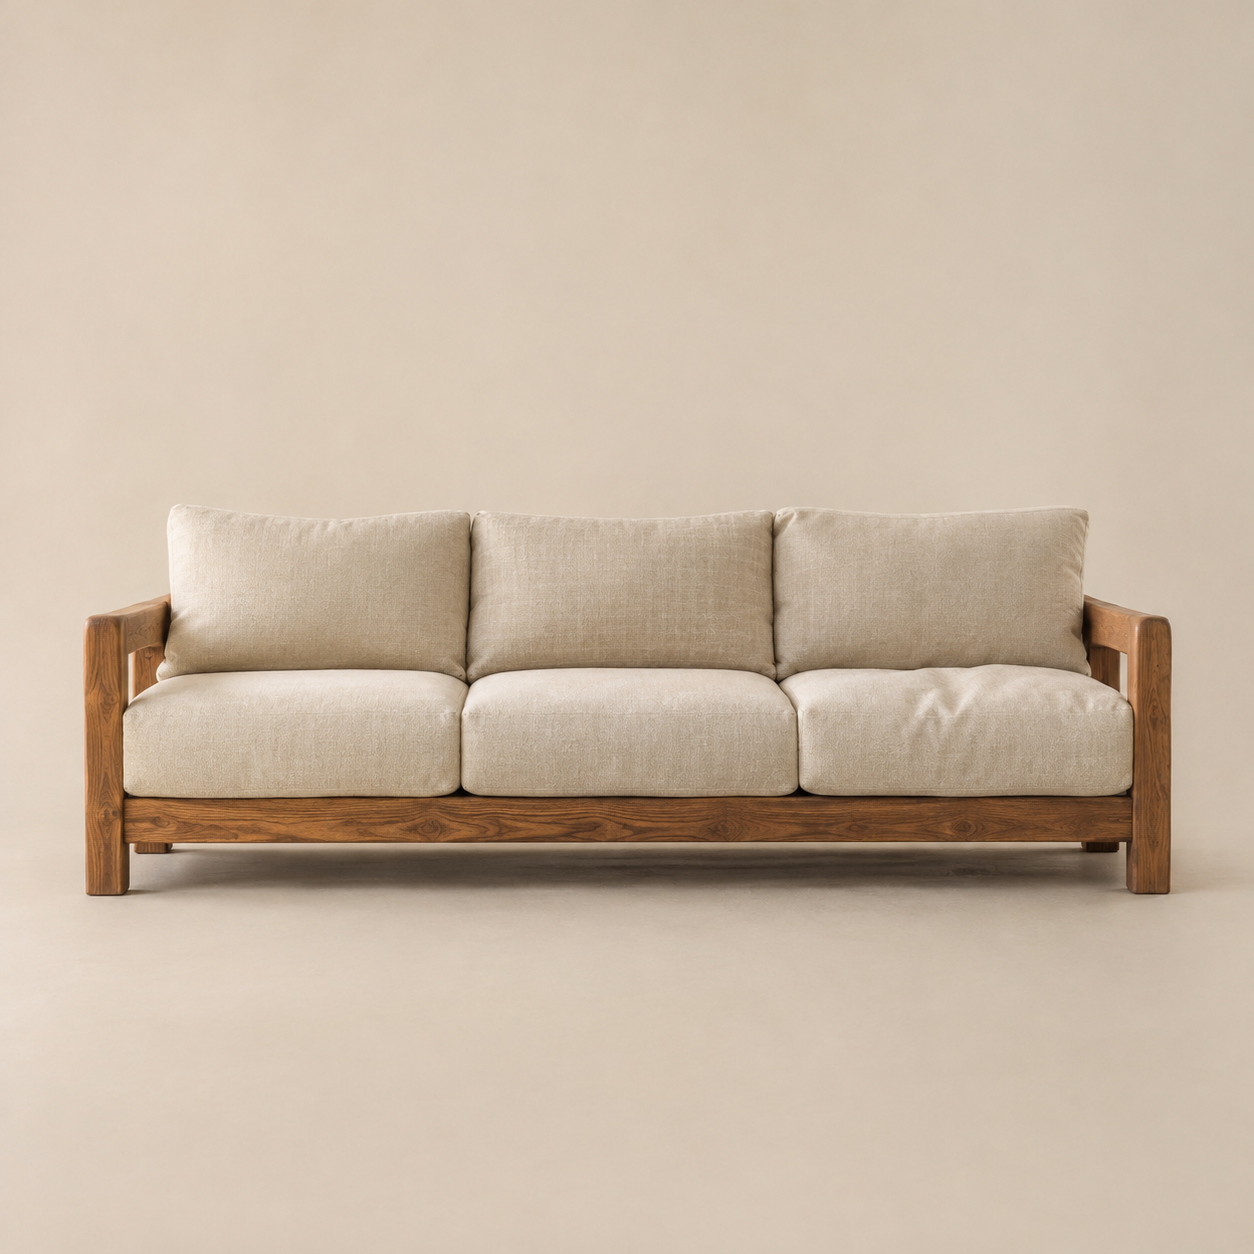
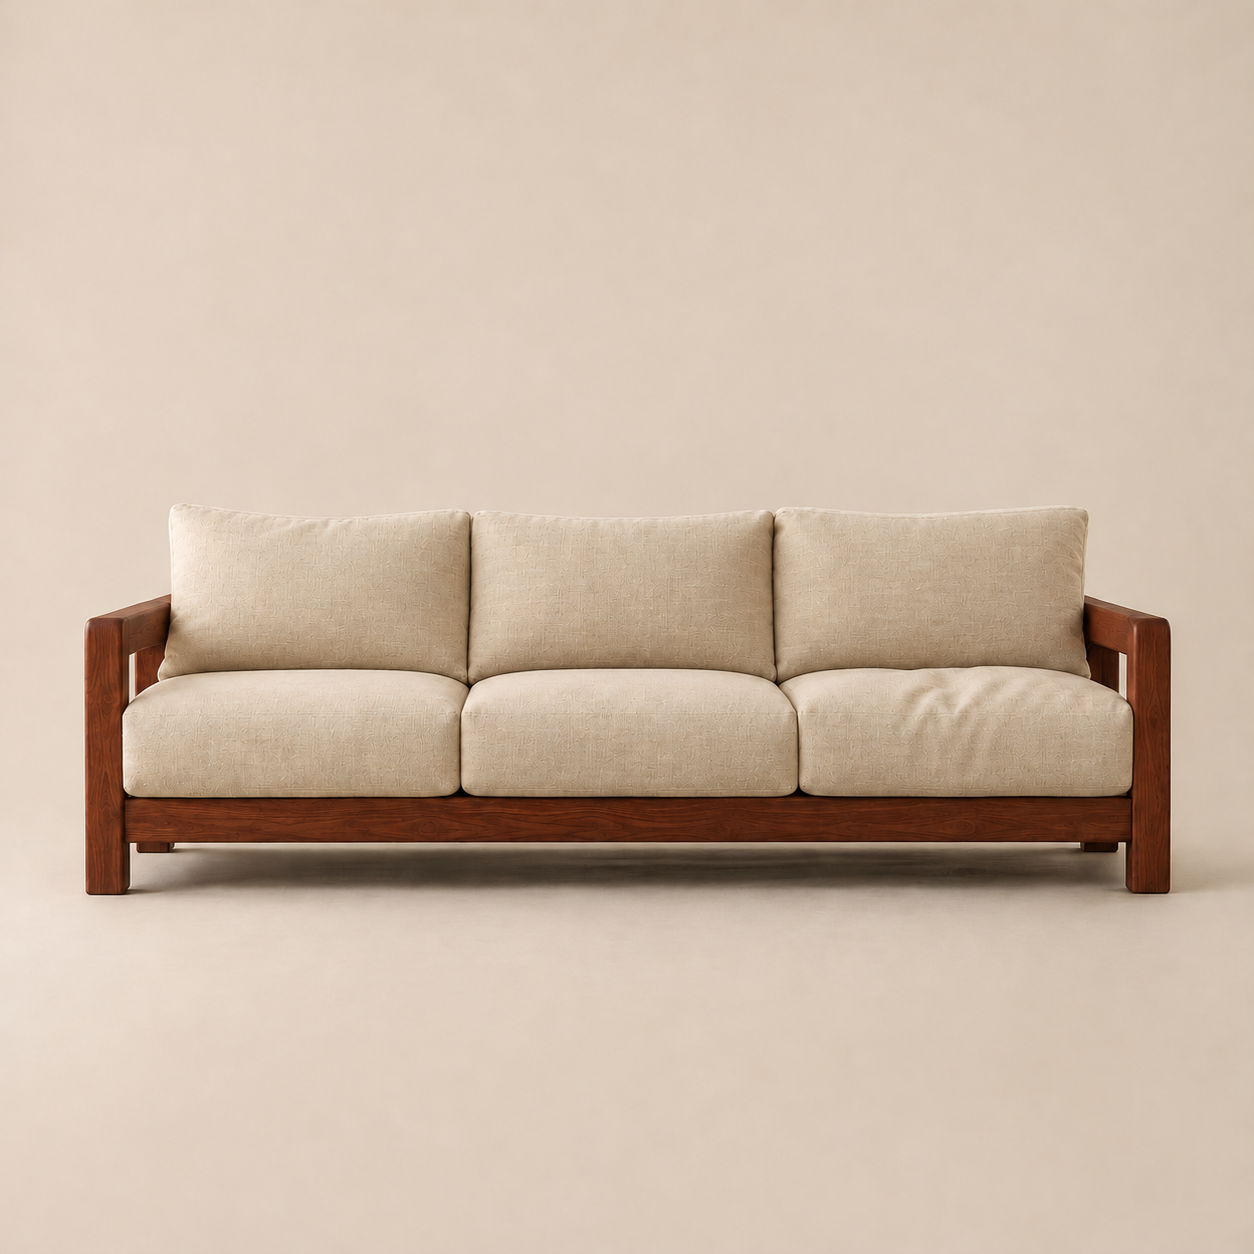
design: approve mahogany Silong Sofa reference

diff --git a/design/photography/README.md b/design/photography/README.md
@@ -4,4 +4,4 @@ Generated with Codex from `docs/content/image-briefs.md`.
 
 | Shot | Status |
 |---|---|
-| `silong-studio-front.png` | Approved by Aedwon on 2026-11-14 as the Silong Sofa reference. Every later Silong image reuses this frame, finish, cushion layout, and fabric. |
+| `silong-studio-front.png` | Approved by Aedwon on 2026-11-14 as the Silong Sofa reference: deep reddish plantation mahogany, oat linen. The faint pattern in the linen was accepted as is. Every later Silong image reuses this frame, finish, cushion layout, and fabric. |
